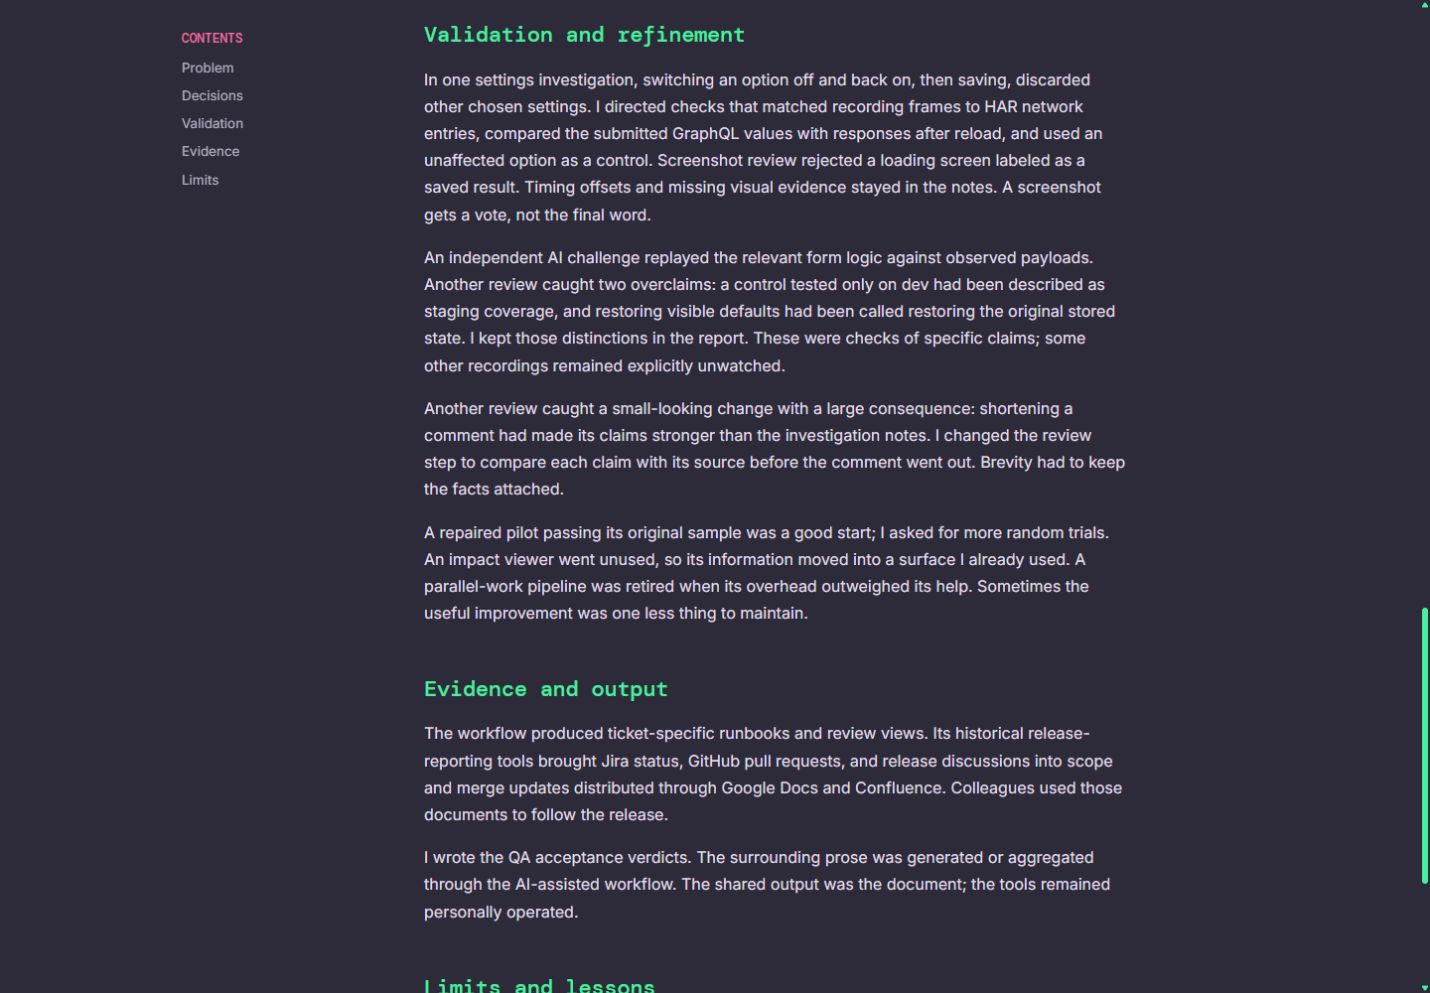
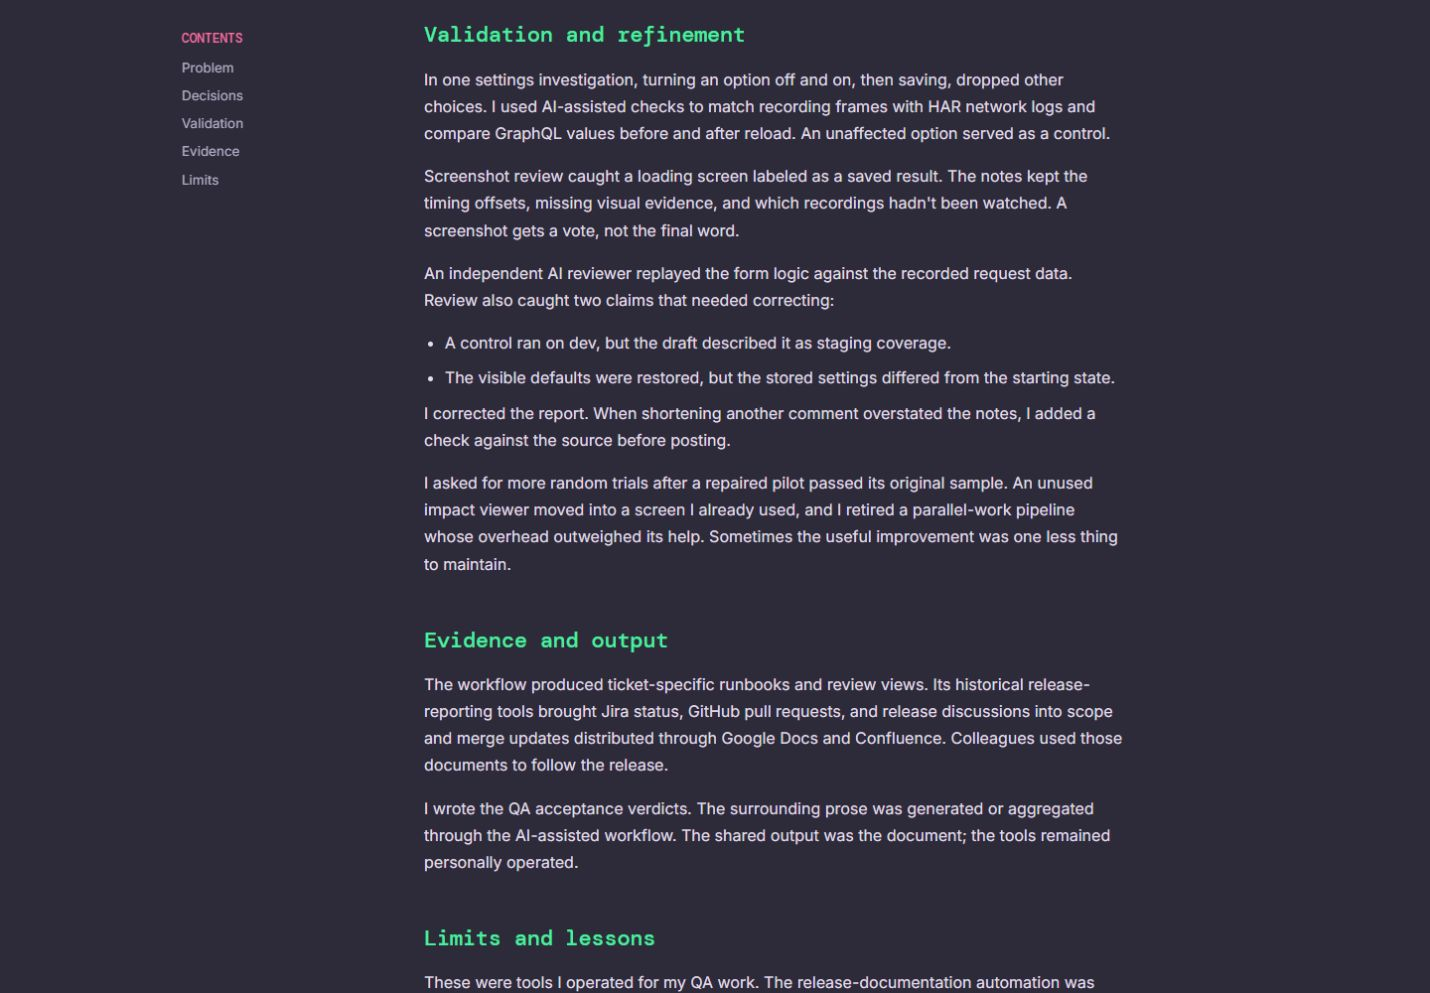
Tighten QA case study voice and readability

Changed region(s): [[0.2769, 0.0624, 0.8, 0.6556], [0.2769, 0.6868, 0.8, 1.0], [0.9846, 0.5932, 1.0, 0.9053]]

diff --git a/portfolio/projects/qa-workflow.html b/portfolio/projects/qa-workflow.html
@@ -23,10 +23,10 @@
 <article class="case-body">
 <section id="problem"><h2>Problem</h2><p>A ticket rarely arrives with everything needed to test it. The useful context might be in a code change, an old finding, a discussion, or a release note. I kept having to reconstruct the task before I could investigate it.</p><p>I wanted that groundwork in one usable packet: what should happen, what had gone wrong before, where to look for regressions, and which sources the system could not check. Missing context needed a label, not a confident guess.</p></section>
 <section id="decisions"><h2>Decisions and implementation</h2><p>I defined the behavior, configured the tools, and directed AI-assisted implementation. Then I tried the results on real tasks. Runbooks, investigation tools, evidence-review views, and shared-artifact practices became parts of the same workflow, each with a job to earn.</p><p>The central rule was simple: say when a source could not be checked. An unavailable system and an empty result mean different things. Preparation, investigation, independent review, and the human decision also stayed separate, so a finished packet could not quietly become a finished test.</p>
-<p>I cross-checked Jira acceptance criteria with RFCs and implementation details in GitHub, then looked for decisions made in Slack or conversation. When a later instruction changed the testing environment, earlier results kept their original environment labels. Conflicting requirements and unanswered product questions stayed visible. A reproducible surprise still needed checking against what the product was meant to do.</p>
+<p>I checked Jira acceptance criteria against RFCs and implementation details in GitHub, then looked through Slack and conversations for decisions missing from the ticket. Conflicting requirements and unanswered product questions stayed in the notes.</p><p>When instructions changed the testing environment, I kept earlier results labeled with where they actually ran. A reproducible result still needed checking against the intended behavior.</p>
 <figure><p class="figure-label">Illustrative reconstruction · No workplace data</p><div class="flow" aria-label="Source context leads to preparation, investigation, independent review, and a human decision"><span>Source context</span><b aria-hidden="true">&rarr;</b><span>Preparation</span><b aria-hidden="true">&rarr;</b><span>Investigation</span><b aria-hidden="true">&rarr;</b><span>Independent review</span><b aria-hidden="true">&rarr;</b><span>Human decision</span></div><div class="reconstruction"><div><strong>Retrieved</strong>Relevant prior behavior is attached to the packet.</div><div><strong>Unavailable</strong>One source could not be checked; the packet says so.</div><div><strong>Open coverage</strong>A persistence check still needs a real save and readback.</div></div><figcaption>A fictional packet shows the three states a reviewer needs to distinguish. It is a diagram of the workflow, not a screenshot or evidence of a specific ticket.</figcaption></figure>
 <p>For shared outputs, I used review before external action, one writer for the current artifact, and recovery steps when work stopped partway through. These were practices to test and revise as the tools changed.</p><p>The Kanban board got a rethink too. Ownership lanes looked organized but did a poor job of showing progress, so I changed them to pipeline stages. Stale, missing, disconnected, and empty data each needed their own state. I also removed convincing sample cards from the live starting view. Fictional work should not look ready to pick up.</p></section>
-<section id="validation"><h2>Validation and refinement</h2><p>In one settings investigation, switching an option off and back on, then saving, discarded other chosen settings. I directed checks that matched recording frames to HAR network entries, compared the submitted GraphQL values with responses after reload, and used an unaffected option as a control. Screenshot review rejected a loading screen labeled as a saved result. Timing offsets and missing visual evidence stayed in the notes. A screenshot gets a vote, not the final word.</p><p>An independent AI challenge replayed the relevant form logic against observed payloads. Another review caught two overclaims: a control tested only on dev had been described as staging coverage, and restoring visible defaults had been called restoring the original stored state. I kept those distinctions in the report. These were checks of specific claims; some other recordings remained explicitly unwatched.</p><p>Another review caught a small-looking change with a large consequence: shortening a comment had made its claims stronger than the investigation notes. I changed the review step to compare each claim with its source before the comment went out. Brevity had to keep the facts attached.</p><p>A repaired pilot passing its original sample was a good start; I asked for more random trials. An impact viewer went unused, so its information moved into a surface I already used. A parallel-work pipeline was retired when its overhead outweighed its help. Sometimes the useful improvement was one less thing to maintain.</p></section>
+<section id="validation"><h2>Validation and refinement</h2><p>In one settings investigation, turning an option off and on, then saving, dropped other choices. I used AI-assisted checks to match recording frames with HAR network logs and compare GraphQL values before and after reload. An unaffected option served as a control.</p><p>Screenshot review caught a loading screen labeled as a saved result. The notes kept the timing offsets, missing visual evidence, and which recordings hadn't been watched. A screenshot gets a vote, not the final word.</p><p>An independent AI reviewer replayed the form logic against the recorded request data. Review also caught two claims that needed correcting:</p><ul><li>A control ran on dev, but the draft described it as staging coverage.</li><li>The visible defaults were restored, but the stored settings differed from the starting state.</li></ul><p>I corrected the report. When shortening another comment overstated the notes, I added a check against the source before posting.</p><p>I asked for more random trials after a repaired pilot passed its original sample. An unused impact viewer moved into a screen I already used, and I retired a parallel-work pipeline whose overhead outweighed its help. Sometimes the useful improvement was one less thing to maintain.</p></section>
 <section id="evidence"><h2>Evidence and output</h2><p>The workflow produced ticket-specific runbooks and review views. Its historical release-reporting tools brought Jira status, GitHub pull requests, and release discussions into scope and merge updates distributed through Google Docs and Confluence. Colleagues used those documents to follow the release.</p><p>I wrote the QA acceptance verdicts. The surrounding prose was generated or aggregated through the AI-assisted workflow. The shared output was the document; the tools remained personally operated.</p></section>
 <section id="limits"><h2>Limits and lessons</h2><p>These were tools I operated for my QA work. The release-documentation automation was later retired, and its history includes stale information and environment distinctions that needed correction. Useful output still needed upkeep.</p><p>The test I keep coming back to: can I start work from this packet, and can I see where its knowledge runs out? Retrieval, review, and honest gaps all have to work together.</p></section>
 <footer class="case-footer"><a href="al80-studio.html">Next: AL80 Studio &rarr;</a><a href="mailto:kayla@snackdriven.com">Contact Kayla</a></footer>

diff --git a/verification/qa-workflow-depth.md b/verification/qa-workflow-depth.md
@@ -11,3 +11,9 @@ The account was checked against the retained run records and private Notion rese
 - Contents link reaches the validation section at 390px.
 - Desktop and mobile screenshots show the final copy: `qa-workflow-depth-desktop.png`, `qa-workflow-depth-mobile.png`.
 - Existing case-study layout and styling are unchanged. No physical-device, print, or screen-reader speech verification was performed for this copy update.
+
+## Voice follow-up
+
+- Applied the existing humanizer, voice-cadence, framing and prose-simplification guidance to the added sections.
+- Replaced report-like phrases with direct wording and separated the two review corrections into bullets. Technical facts, environment distinctions and AI attribution remain intact.
+- Refreshed the desktop and mobile screenshots; no horizontal overflow at 390px or 1440px with normal text.
